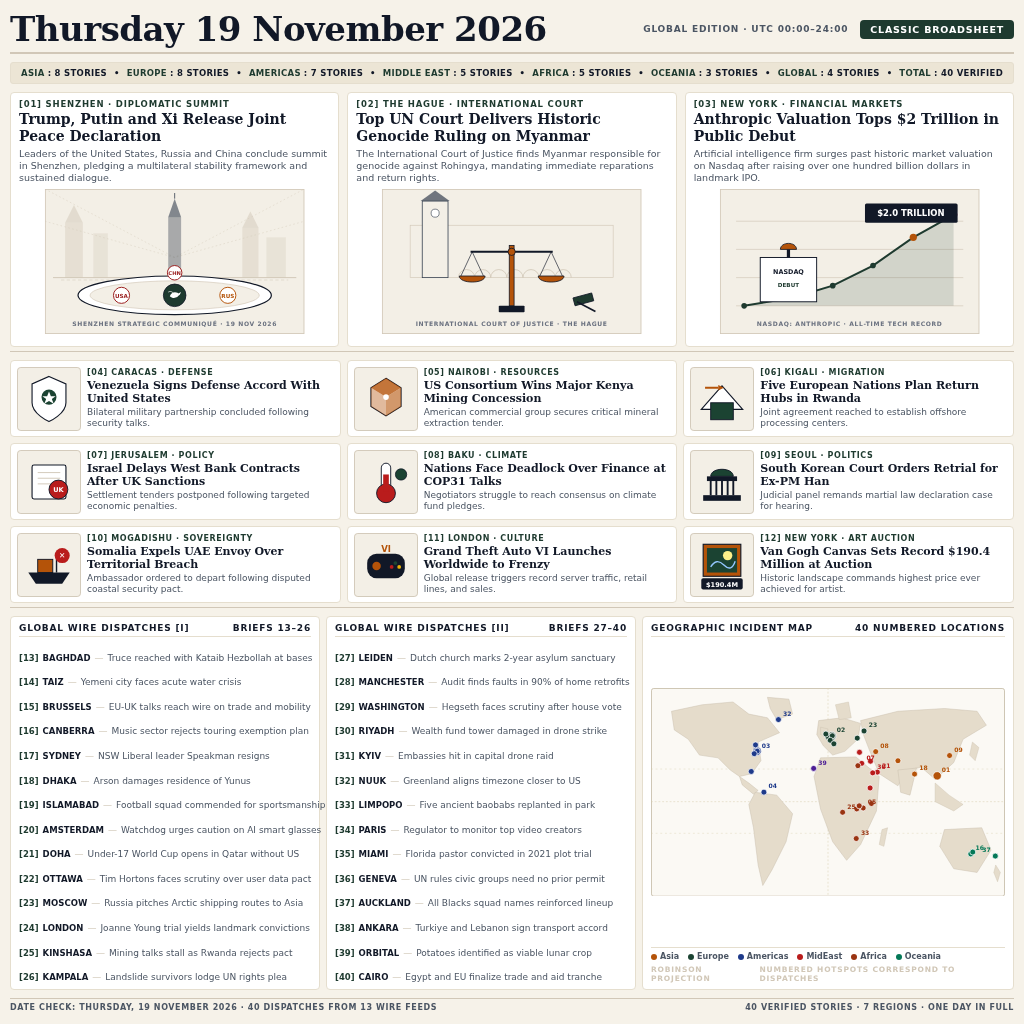
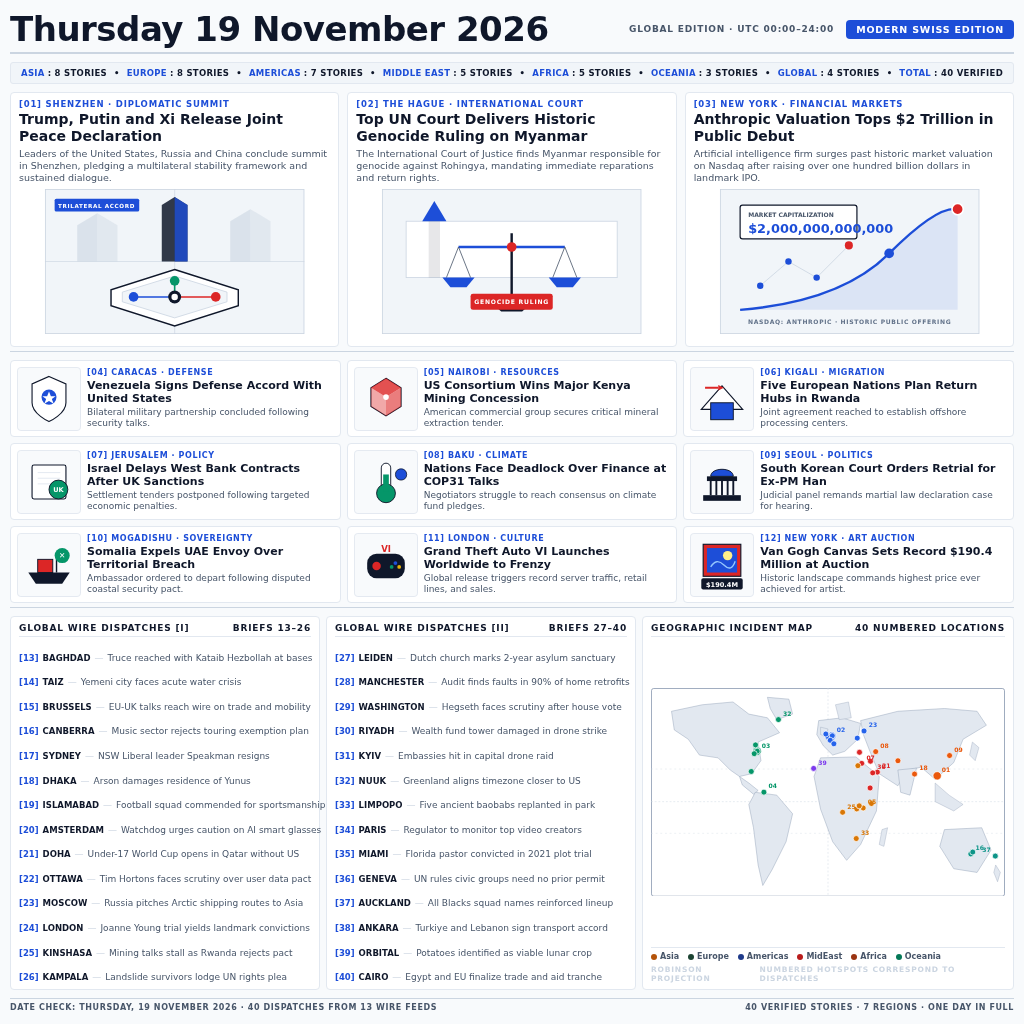
Poster D_fit: deterministic render for 19 November 2026 world news

diff --git a/main.py b/main.py
@@ -3,27 +3,26 @@ import os
 import sys
 from pathlib import Path
 
-
 ASSET = Path(__file__).resolve().parent / "assets" / "entry.png"
[2 lines of base64/hex data omitted]
 
 
-def sha256(path: Path) -> str:
-    digest = hashlib.sha256()
+def digest(path):
+    value = hashlib.sha256()
     with path.open("rb") as source:
         for block in iter(lambda: source.read(1 << 20), b""):
-            digest.update(block)
-    return digest.hexdigest()
+            value.update(block)
+    return value.hexdigest()
 
 
-def main() -> int:
+def main():
     output_dir = Path(os.environ.get("MAKEFUN_OUTPUT_DIR") or "/output")
-    output_path = output_dir / "entry.png"
+    output = output_dir / "entry.png"
     try:
         if not ASSET.is_file():
             print(f"error: missing asset: {ASSET}", file=sys.stderr)
             return 1
-        if sha256(ASSET) != EXPECTED:
+        if digest(ASSET) != EXPECTED:
             print("error: asset sha256 mismatch", file=sys.stderr)
             return 1
         data = ASSET.read_bytes()
@@ -31,11 +30,11 @@ def main() -> int:
             print("error: asset sha256 mismatch", file=sys.stderr)
             return 1
         output_dir.mkdir(parents=True, exist_ok=True)
-        output_path.write_bytes(data)
+        output.write_bytes(data)
+        print(output)
     except OSError as exc:
         print(f"error: {exc}", file=sys.stderr)
         return 1
-    print(output_path)
     return 0
 
 
